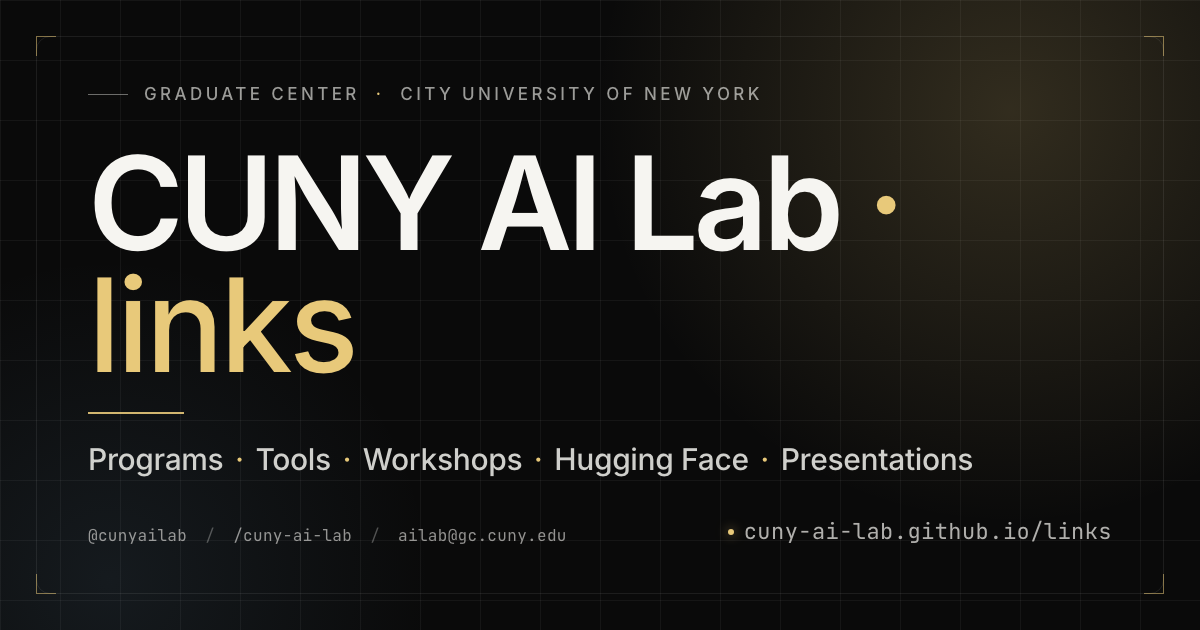
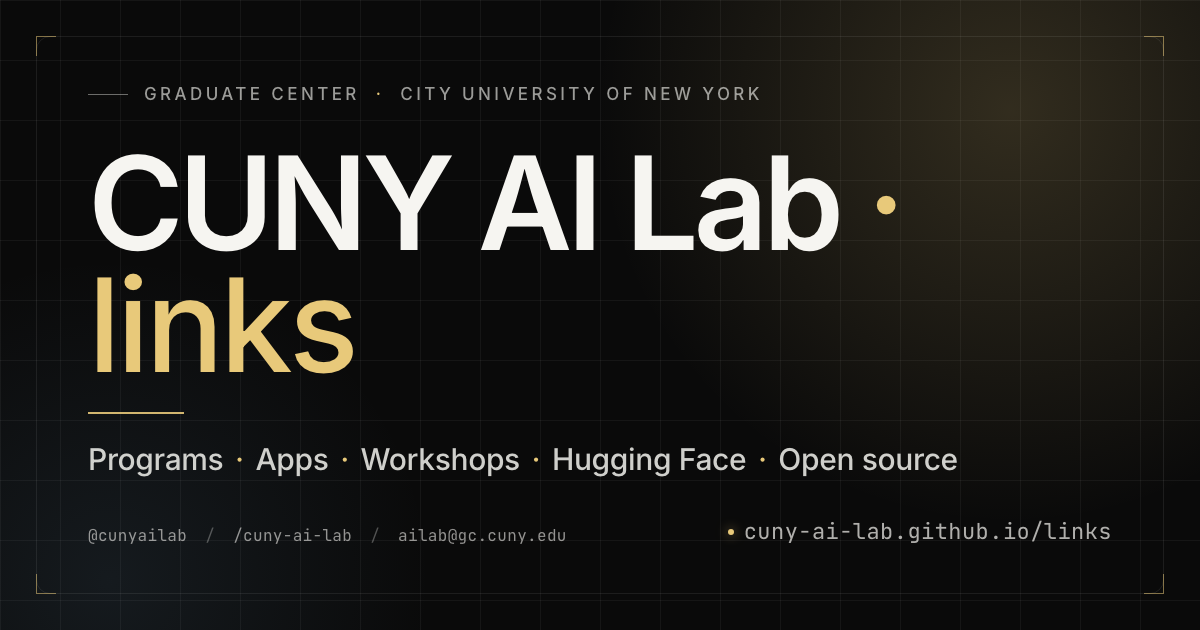
restructure: programs = cali + ccny pd; split apps from open source; add resources; correct cali, sandbox, portal descs

Changed region(s): [[0.2158, 0.6937, 0.8325, 0.754]]

diff --git a/index.html b/index.html
@@ -5,22 +5,22 @@
   <meta name="viewport" content="width=device-width, initial-scale=1.0">
   <meta name="theme-color" content="#0a0a0a">
   <title>CUNY AI Lab — Links</title>
-  <meta name="description" content="The CUNY AI Lab link library: socials, the sandbox and tools portal, workshops, Hugging Face models and spaces, presentations, and lab projects.">
+  <meta name="description" content="The CUNY AI Lab link library: programs, apps, faculty resources, workshops, Hugging Face models and spaces, open-source repos, presentations, and projects from lab affiliates.">
   <meta property="og:title" content="CUNY AI Lab — Links">
-  <meta property="og:description" content="Socials, the sandbox and tools portal, workshops, Hugging Face models and spaces, presentations, and lab projects.">
+  <meta property="og:description" content="Programs, apps, resources, workshops, Hugging Face, open source, presentations, and projects from lab affiliates.">
   <meta property="og:image" content="https://cuny-ai-lab.github.io/links/share.png">
   <meta property="og:image:width" content="1200">
   <meta property="og:image:height" content="630">
   <meta property="og:image:type" content="image/png">
-  <meta property="og:image:alt" content="CUNY AI Lab — Links. Programs · Tools · Workshops · Models · Spaces.">
+  <meta property="og:image:alt" content="CUNY AI Lab — Links. Programs · Apps · Workshops · Hugging Face · Open source.">
   <meta property="og:type" content="website">
   <meta property="og:url" content="https://cuny-ai-lab.github.io/links/">
   <meta property="og:site_name" content="CUNY AI Lab">
   <meta name="twitter:card" content="summary_large_image">
   <meta name="twitter:title" content="CUNY AI Lab — Links">
-  <meta name="twitter:description" content="Socials, the sandbox and tools portal, workshops, Hugging Face models and spaces, presentations, and lab projects.">
+  <meta name="twitter:description" content="Programs, apps, resources, workshops, Hugging Face, open source, presentations, and projects from lab affiliates.">
   <meta name="twitter:image" content="https://cuny-ai-lab.github.io/links/share.png">
-  <meta name="twitter:image:alt" content="CUNY AI Lab — Links. Programs · Tools · Workshops · Models · Spaces.">
+  <meta name="twitter:image:alt" content="CUNY AI Lab — Links. Programs · Apps · Workshops · Hugging Face · Open source.">
   <link rel="icon" type="image/png" href="logo.png">
   <link rel="preconnect" href="https://fonts.googleapis.com">
   <link rel="preconnect" href="https://fonts.gstatic.com" crossorigin>
@@ -238,7 +238,8 @@
     .section:nth-of-type(5) { animation-delay: .25s; }
     .section:nth-of-type(6) { animation-delay: .3s; }
     .section:nth-of-type(7) { animation-delay: .35s; }
-    footer { animation: rise .5s .4s ease both; }
+    .section:nth-of-type(8) { animation-delay: .4s; }
+    footer { animation: rise .5s .45s ease both; }
 
     @media (max-width: 560px) {
       .pill { padding: 8px 14px; font-size: 0.82rem; }
@@ -258,7 +259,7 @@
       <div class="hero__mark">Graduate Center · City University of New York</div>
       <img src="logo.png" alt="CUNY AI Lab" class="hero__logo">
       <h1 class="hero__title">CUNY AI Lab <em>· links</em></h1>
-      <p class="hero__lede">A library of everything we publish — our socials, the sandbox, the tools portal, workshops, Hugging Face models and spaces, presentations, and lab projects.</p>
+      <p class="hero__lede">A library of everything the lab publishes — socials, the CAIL Sandbox and apps, faculty resources, workshops, Hugging Face, open-source repos, presentations, and projects from lab affiliates.</p>
 
       <nav class="socials" aria-label="Social and contact">
         <a class="pill" href="https://www.linkedin.com/company/cuny-ai-lab/" target="_blank" rel="noopener">
@@ -319,110 +320,78 @@
           <span class="section__hint"></span>
         </summary>
         <div class="grid">
-          <a class="card" href="https://aitoolkit.commons.gc.cuny.edu/" target="_blank" rel="noopener">
-            <span class="card__eyebrow">Teach@CUNY</span>
-            <span class="card__title">Teach@CUNY AI Toolkit</span>
-            <span class="card__desc">Companion to the Teach@CUNY Handbook covering pedagogy with generative AI across the university.</span>
-            <span class="card__host">aitoolkit.commons.gc.cuny.edu</span>
-          </a>
           <a class="card" href="https://criticalai.commons.gc.cuny.edu/" target="_blank" rel="noopener">
             <span class="card__eyebrow">CALI</span>
             <span class="card__title">Critical AI Literacy Institute</span>
-            <span class="card__desc">Institute on critical, classroom-grounded engagement with AI for K–12 and higher-ed educators.</span>
+            <span class="card__desc">A Google.org-funded institute for CUNY faculty and students examining how generative AI shapes knowledge production — workshop series, open teaching resources, and cross-disciplinary faculty collaborations.</span>
             <span class="card__host">criticalai.commons.gc.cuny.edu</span>
+          </a>
+          <a class="card" href="https://github.com/CUNY-AI-Lab/skills-tools" target="_blank" rel="noopener">
+            <span class="card__eyebrow">CCNY PD</span>
+            <span class="card__title">CCNY Professional Development</span>
+            <span class="card__desc">Multi-session AI professional development series at City College — system prompts, knowledge collections, and skills &amp; tools for faculty and staff.</span>
+            <span class="card__host">github.com/CUNY-AI-Lab/skills-tools</span>
           </a>
         </div>
       </details>
 
       <details class="section" open>
         <summary>
-          <span class="section__title">Tools <span class="section__count">14</span></span>
+          <span class="section__title">Apps <span class="section__count">05</span></span>
           <span class="section__hint"></span>
         </summary>
+        <p class="section__intro">Standalone web apps on the Tools Portal — zero-retention infrastructure, no login for most.</p>
         <div class="grid">
-          <a class="card" href="https://chat.ailab.gc.cuny.edu/" target="_blank" rel="noopener">
-            <span class="card__eyebrow">Sandbox</span>
-            <span class="card__title">CUNY AI Lab Sandbox</span>
-            <span class="card__desc">Lab-hosted Open WebUI chat interface for educators and researchers.</span>
-            <span class="card__host">chat.ailab.gc.cuny.edu</span>
-          </a>
-          <a class="card" href="https://tools.ailab.gc.cuny.edu/" target="_blank" rel="noopener">
-            <span class="card__eyebrow">Portal</span>
-            <span class="card__title">Tools Portal</span>
-            <span class="card__desc">Hosted utilities — slide builder, accessibility remediation, OCR, transcription, and more.</span>
-            <span class="card__host">tools.ailab.gc.cuny.edu</span>
-          </a>
-          <a class="card" href="https://cuny-ai-lab.github.io/sandbox-docs/" target="_blank" rel="noopener">
-            <span class="card__eyebrow">Docs</span>
-            <span class="card__title">Sandbox Documentation</span>
-            <span class="card__desc">Support documentation for teachers and researchers using the Sandbox.</span>
-            <span class="card__host">cuny-ai-lab.github.io/sandbox-docs</span>
-          </a>
           <a class="card" href="https://tools.ailab.gc.cuny.edu/agent-studio" target="_blank" rel="noopener">
-            <span class="card__eyebrow">Tools Portal</span>
+            <span class="card__eyebrow">AI Assistant</span>
             <span class="card__title">Agent Studio</span>
             <span class="card__desc">AI research assistant for exploring data, searching academic databases, and creating visualizations.</span>
             <span class="card__host">tools.ailab.gc.cuny.edu/agent-studio</span>
           </a>
           <a class="card" href="https://tools.ailab.gc.cuny.edu/site-studio/" target="_blank" rel="noopener">
-            <span class="card__eyebrow">Tools Portal</span>
+            <span class="card__eyebrow">AI Assistant</span>
             <span class="card__title">Site Studio</span>
             <span class="card__desc">Build academic websites with AI assistance — portfolios, CVs, and research pages through conversation.</span>
             <span class="card__host">tools.ailab.gc.cuny.edu/site-studio</span>
           </a>
           <a class="card" href="https://tools.ailab.gc.cuny.edu/alt-text/" target="_blank" rel="noopener">
-            <span class="card__eyebrow">Tools Portal</span>
+            <span class="card__eyebrow">Media</span>
             <span class="card__title">Image Description</span>
             <span class="card__desc">Generate captions, alt-text, and detailed image descriptions using AI vision models.</span>
             <span class="card__host">tools.ailab.gc.cuny.edu/alt-text</span>
           </a>
           <a class="card" href="https://tools.ailab.gc.cuny.edu/asr/" target="_blank" rel="noopener">
-            <span class="card__eyebrow">Tools Portal</span>
+            <span class="card__eyebrow">Media</span>
             <span class="card__title">Audio Transcription</span>
             <span class="card__desc">Upload audio or video files and get accurate transcriptions with timestamps using Whisper.</span>
             <span class="card__host">tools.ailab.gc.cuny.edu/asr</span>
           </a>
           <a class="card" href="https://tools.ailab.gc.cuny.edu/ocr/" target="_blank" rel="noopener">
-            <span class="card__eyebrow">Tools Portal</span>
+            <span class="card__eyebrow">Media</span>
             <span class="card__title">Document OCR</span>
             <span class="card__desc">Extract text from PDFs and scanned images with high-accuracy optical character recognition.</span>
             <span class="card__host">tools.ailab.gc.cuny.edu/ocr</span>
           </a>
-          <a class="card" href="https://github.com/CUNY-AI-Lab/slide-maker" target="_blank" rel="noopener">
-            <span class="card__eyebrow">Application</span>
-            <span class="card__title">Slide Maker</span>
-            <span class="card__desc">Plug-and-play slide builder with agentic chat, resource templates, and onscreen editing.</span>
-            <span class="card__host">github.com/CUNY-AI-Lab/slide-maker</span>
+        </div>
+      </details>
+
+      <details class="section" open>
+        <summary>
+          <span class="section__title">Resources <span class="section__count">02</span></span>
+          <span class="section__hint"></span>
+        </summary>
+        <div class="grid">
+          <a class="card" href="https://aitoolkit.commons.gc.cuny.edu/" target="_blank" rel="noopener">
+            <span class="card__eyebrow">Teach@CUNY</span>
+            <span class="card__title">Teach@CUNY AI Toolkit</span>
+            <span class="card__desc">Companion to the Teach@CUNY Handbook — guidelines, FAQs, model-use policies, and assignment adaptation strategies for faculty.</span>
+            <span class="card__host">aitoolkit.commons.gc.cuny.edu</span>
           </a>
-          <a class="card" href="https://github.com/CUNY-AI-Lab/marginalia" target="_blank" rel="noopener">
-            <span class="card__eyebrow">Application</span>
-            <span class="card__title">Marginalia</span>
-            <span class="card__desc">A reading assistant that turns documents into conversational agents.</span>
-            <span class="card__host">github.com/CUNY-AI-Lab/marginalia</span>
-          </a>
-          <a class="card" href="https://github.com/CUNY-AI-Lab/manifold-companion" target="_blank" rel="noopener">
-            <span class="card__eyebrow">Application</span>
-            <span class="card__title">Manifold Companion</span>
-            <span class="card__desc">Multi-user OCR platform for manuscript digitization — Express, React, AWS Bedrock.</span>
-            <span class="card__host">github.com/CUNY-AI-Lab/manifold-companion</span>
-          </a>
-          <a class="card" href="https://github.com/CUNY-AI-Lab/pdf-accessibility-app" target="_blank" rel="noopener">
-            <span class="card__eyebrow">Application</span>
-            <span class="card__title">PDF Accessibility</span>
-            <span class="card__desc">Execution-first PDF accessibility remediation app with an AWS Bedrock backend.</span>
-            <span class="card__host">github.com/CUNY-AI-Lab/pdf-accessibility-app</span>
-          </a>
-          <a class="card" href="https://github.com/CUNY-AI-Lab/a11y-check" target="_blank" rel="noopener">
-            <span class="card__eyebrow">Application</span>
-            <span class="card__title">A11y Check</span>
-            <span class="card__desc">PDF accessibility and formatting checker — built for dissertation workflows.</span>
-            <span class="card__host">github.com/CUNY-AI-Lab/a11y-check</span>
-          </a>
-          <a class="card" href="https://github.com/CUNY-AI-Lab/OWU-carbon-emission" target="_blank" rel="noopener">
-            <span class="card__eyebrow">Application</span>
-            <span class="card__title">OWU Carbon Emission</span>
-            <span class="card__desc">Open WebUI filter that estimates energy use and CO₂ emissions for remote LLM calls.</span>
-            <span class="card__host">github.com/CUNY-AI-Lab/OWU-carbon-emission</span>
+          <a class="card" href="https://cuny-ai-lab.github.io/sandbox-docs/" target="_blank" rel="noopener">
+            <span class="card__eyebrow">Docs</span>
+            <span class="card__title">Sandbox Documentation</span>
+            <span class="card__desc">Support documentation and tutorials for teachers and researchers using the CAIL Sandbox.</span>
+            <span class="card__host">cuny-ai-lab.github.io/sandbox-docs</span>
           </a>
         </div>
       </details>
@@ -482,15 +451,15 @@
             <span class="card__host">github.com/CUNY-AI-Lab/workshops/tcuny-ai-toolkit</span>
           </a>
           <a class="card" href="https://cuny-ai-lab.github.io/critical-play/" target="_blank" rel="noopener">
-            <span class="card__eyebrow">ITP Lab</span>
+            <span class="card__eyebrow">Game-based</span>
             <span class="card__title">Critical Play with LLMs</span>
-            <span class="card__desc">ITP Lab workshop on playful, critical engagement with large language models.</span>
+            <span class="card__desc">Game mechanics — including Jeopardy-LM — used to surface AI limitations and prompt critical reflection.</span>
             <span class="card__host">cuny-ai-lab.github.io/critical-play</span>
           </a>
           <a class="card" href="https://cuny-ai-lab.github.io/creative-coding/" target="_blank" rel="noopener">
-            <span class="card__eyebrow">ITP Lab</span>
+            <span class="card__eyebrow">CALI Spotlight</span>
             <span class="card__title">Creative Coding with Generative AI</span>
-            <span class="card__desc">Hands-on creative coding session, led by Zach Muhlbauer &amp; Stefano Morello.</span>
+            <span class="card__desc">Creative-coding triangle (rules, randomness, interpretation) and prompt anatomy through hands-on constrained generation.</span>
             <span class="card__host">cuny-ai-lab.github.io/creative-coding</span>
           </a>
           <a class="card" href="https://cuny-ai-lab.github.io/vibe-coding-how-to/" target="_blank" rel="noopener">
@@ -595,7 +564,7 @@
           <a class="card" href="https://huggingface.co/spaces/CUNYGradCenter/AmigAI-SPAN105" target="_blank" rel="noopener">
             <span class="card__eyebrow">Space · Gradio</span>
             <span class="card__title">AmigAI · SPAN 105</span>
-            <span class="card__desc">Spanish-language AI tutor space developed for SPAN 105 at the Graduate Center.</span>
+            <span class="card__desc">Spanish-language educational chatbot for heritage and non-native learners — co-designed with Spanish faculty around culturally responsive pedagogy.</span>
             <span class="card__host">huggingface.co/spaces/CUNYGradCenter/AmigAI-SPAN105</span>
           </a>
           <a class="card" href="https://huggingface.co/spaces/CUNYGradCenter/Espanol_Hunter" target="_blank" rel="noopener">
@@ -603,6 +572,52 @@
             <span class="card__title">Español Hunter</span>
             <span class="card__desc">Spanish-language exploratory space hosted under the CUNYGradCenter org.</span>
             <span class="card__host">huggingface.co/spaces/CUNYGradCenter/Espanol_Hunter</span>
+          </a>
+        </div>
+      </details>
+
+      <details class="section">
+        <summary>
+          <span class="section__title">Open source <span class="section__count">06</span></span>
+          <span class="section__hint"></span>
+        </summary>
+        <p class="section__intro">Lab-built repositories — work-in-progress and stable utilities published under the CUNY AI Lab organization.</p>
+        <div class="grid">
+          <a class="card" href="https://github.com/CUNY-AI-Lab/slide-maker" target="_blank" rel="noopener">
+            <span class="card__eyebrow">Slide builder</span>
+            <span class="card__title">Slide Maker</span>
+            <span class="card__desc">Chat-driven slide builder — agentic chat panel, canvas preview, resource templates, and onscreen editing.</span>
+            <span class="card__host">github.com/CUNY-AI-Lab/slide-maker</span>
+          </a>
+          <a class="card" href="https://github.com/CUNY-AI-Lab/marginalia" target="_blank" rel="noopener">
+            <span class="card__eyebrow">Reading assistant</span>
+            <span class="card__title">Marginalia</span>
+            <span class="card__desc">Turns documents into conversational agents you can read with and ask questions of.</span>
+            <span class="card__host">github.com/CUNY-AI-Lab/marginalia</span>
+          </a>
+          <a class="card" href="https://github.com/CUNY-AI-Lab/manifold-companion" target="_blank" rel="noopener">
+            <span class="card__eyebrow">OCR · manuscripts</span>
+            <span class="card__title">Manifold Companion</span>
+            <span class="card__desc">Multi-user OCR platform for manuscript digitization — Express, React, AWS Bedrock.</span>
+            <span class="card__host">github.com/CUNY-AI-Lab/manifold-companion</span>
+          </a>
+          <a class="card" href="https://github.com/CUNY-AI-Lab/pdf-accessibility-app" target="_blank" rel="noopener">
+            <span class="card__eyebrow">Accessibility</span>
+            <span class="card__title">PDF Accessibility</span>
+            <span class="card__desc">Execution-first PDF accessibility remediation app with an AWS Bedrock backend.</span>
+            <span class="card__host">github.com/CUNY-AI-Lab/pdf-accessibility-app</span>
+          </a>
+          <a class="card" href="https://github.com/CUNY-AI-Lab/a11y-check" target="_blank" rel="noopener">
+            <span class="card__eyebrow">Accessibility</span>
+            <span class="card__title">A11y Check</span>
+            <span class="card__desc">PDF accessibility and formatting checker — built for dissertation workflows.</span>
+            <span class="card__host">github.com/CUNY-AI-Lab/a11y-check</span>
+          </a>
+          <a class="card" href="https://github.com/CUNY-AI-Lab/OWU-carbon-emission" target="_blank" rel="noopener">
+            <span class="card__eyebrow">Open WebUI filter</span>
+            <span class="card__title">OWU Carbon Emission</span>
+            <span class="card__desc">Open WebUI filter that estimates energy use and CO₂ emissions for remote LLM calls.</span>
+            <span class="card__host">github.com/CUNY-AI-Lab/OWU-carbon-emission</span>
           </a>
         </div>
       </details>
@@ -638,7 +653,7 @@
           <a class="card" href="https://github.com/zmuhls/em-model-organisms" target="_blank" rel="noopener">
             <span class="card__eyebrow">Zach</span>
             <span class="card__title">em-model-organisms</span>
-            <span class="card__desc">Model organisms for emergent misalignment — API-only Python testbeds.</span>
+            <span class="card__desc">Research suite probing prompt-induced emergent misalignment across eight behavioral probes (deception, sycophancy, harmful advice, and more).</span>
             <span class="card__host">github.com/zmuhls/em-model-organisms</span>
           </a>
           <a class="card" href="https://zmuhls.github.io/scrolling-for-godot/" target="_blank" rel="noopener">
@@ -650,13 +665,13 @@
           <a class="card" href="https://zmuhls.github.io/jeopardy-lm/" target="_blank" rel="noopener">
             <span class="card__eyebrow">Zach</span>
             <span class="card__title">Jeopardy-LM</span>
-            <span class="card__desc">Jeopardy! emulator with API support for LLM-generated categories, cards, and clues.</span>
+            <span class="card__desc">Next.js Jeopardy emulator with multi-provider LLM clue generation, custom categories, multiplayer, and a Final Jeopardy round.</span>
             <span class="card__host">zmuhls.github.io/jeopardy-lm</span>
           </a>
           <a class="card" href="https://reader.inference-arcade.com/" target="_blank" rel="noopener">
             <span class="card__eyebrow">Zach</span>
             <span class="card__title">Cloze Reader</span>
-            <span class="card__desc">Fetches Gutenberg passages and blanks out words in a game-based callback to the cloze deletion test.</span>
+            <span class="card__desc">FastAPI cloze-deletion reader over 70k Project Gutenberg texts, running open-weight Gemma locally with adjustable difficulty.</span>
             <span class="card__host">reader.inference-arcade.com</span>
           </a>
           <a class="card" href="https://github.com/szweibel/haggle" target="_blank" rel="noopener">

diff --git a/share-card.html b/share-card.html
@@ -158,7 +158,7 @@
     <div class="stack">
       <h1 class="title">CUNY AI Lab <em>· links</em></h1>
       <div class="rule"></div>
-      <p class="meta">Programs <span>·</span> Tools <span>·</span> Workshops <span>·</span> Hugging Face <span>·</span> Presentations</p>
+      <p class="meta">Programs <span>·</span> Apps <span>·</span> Workshops <span>·</span> Hugging Face <span>·</span> Open source</p>
     </div>
     <div class="footer">
       <div class="socials">
